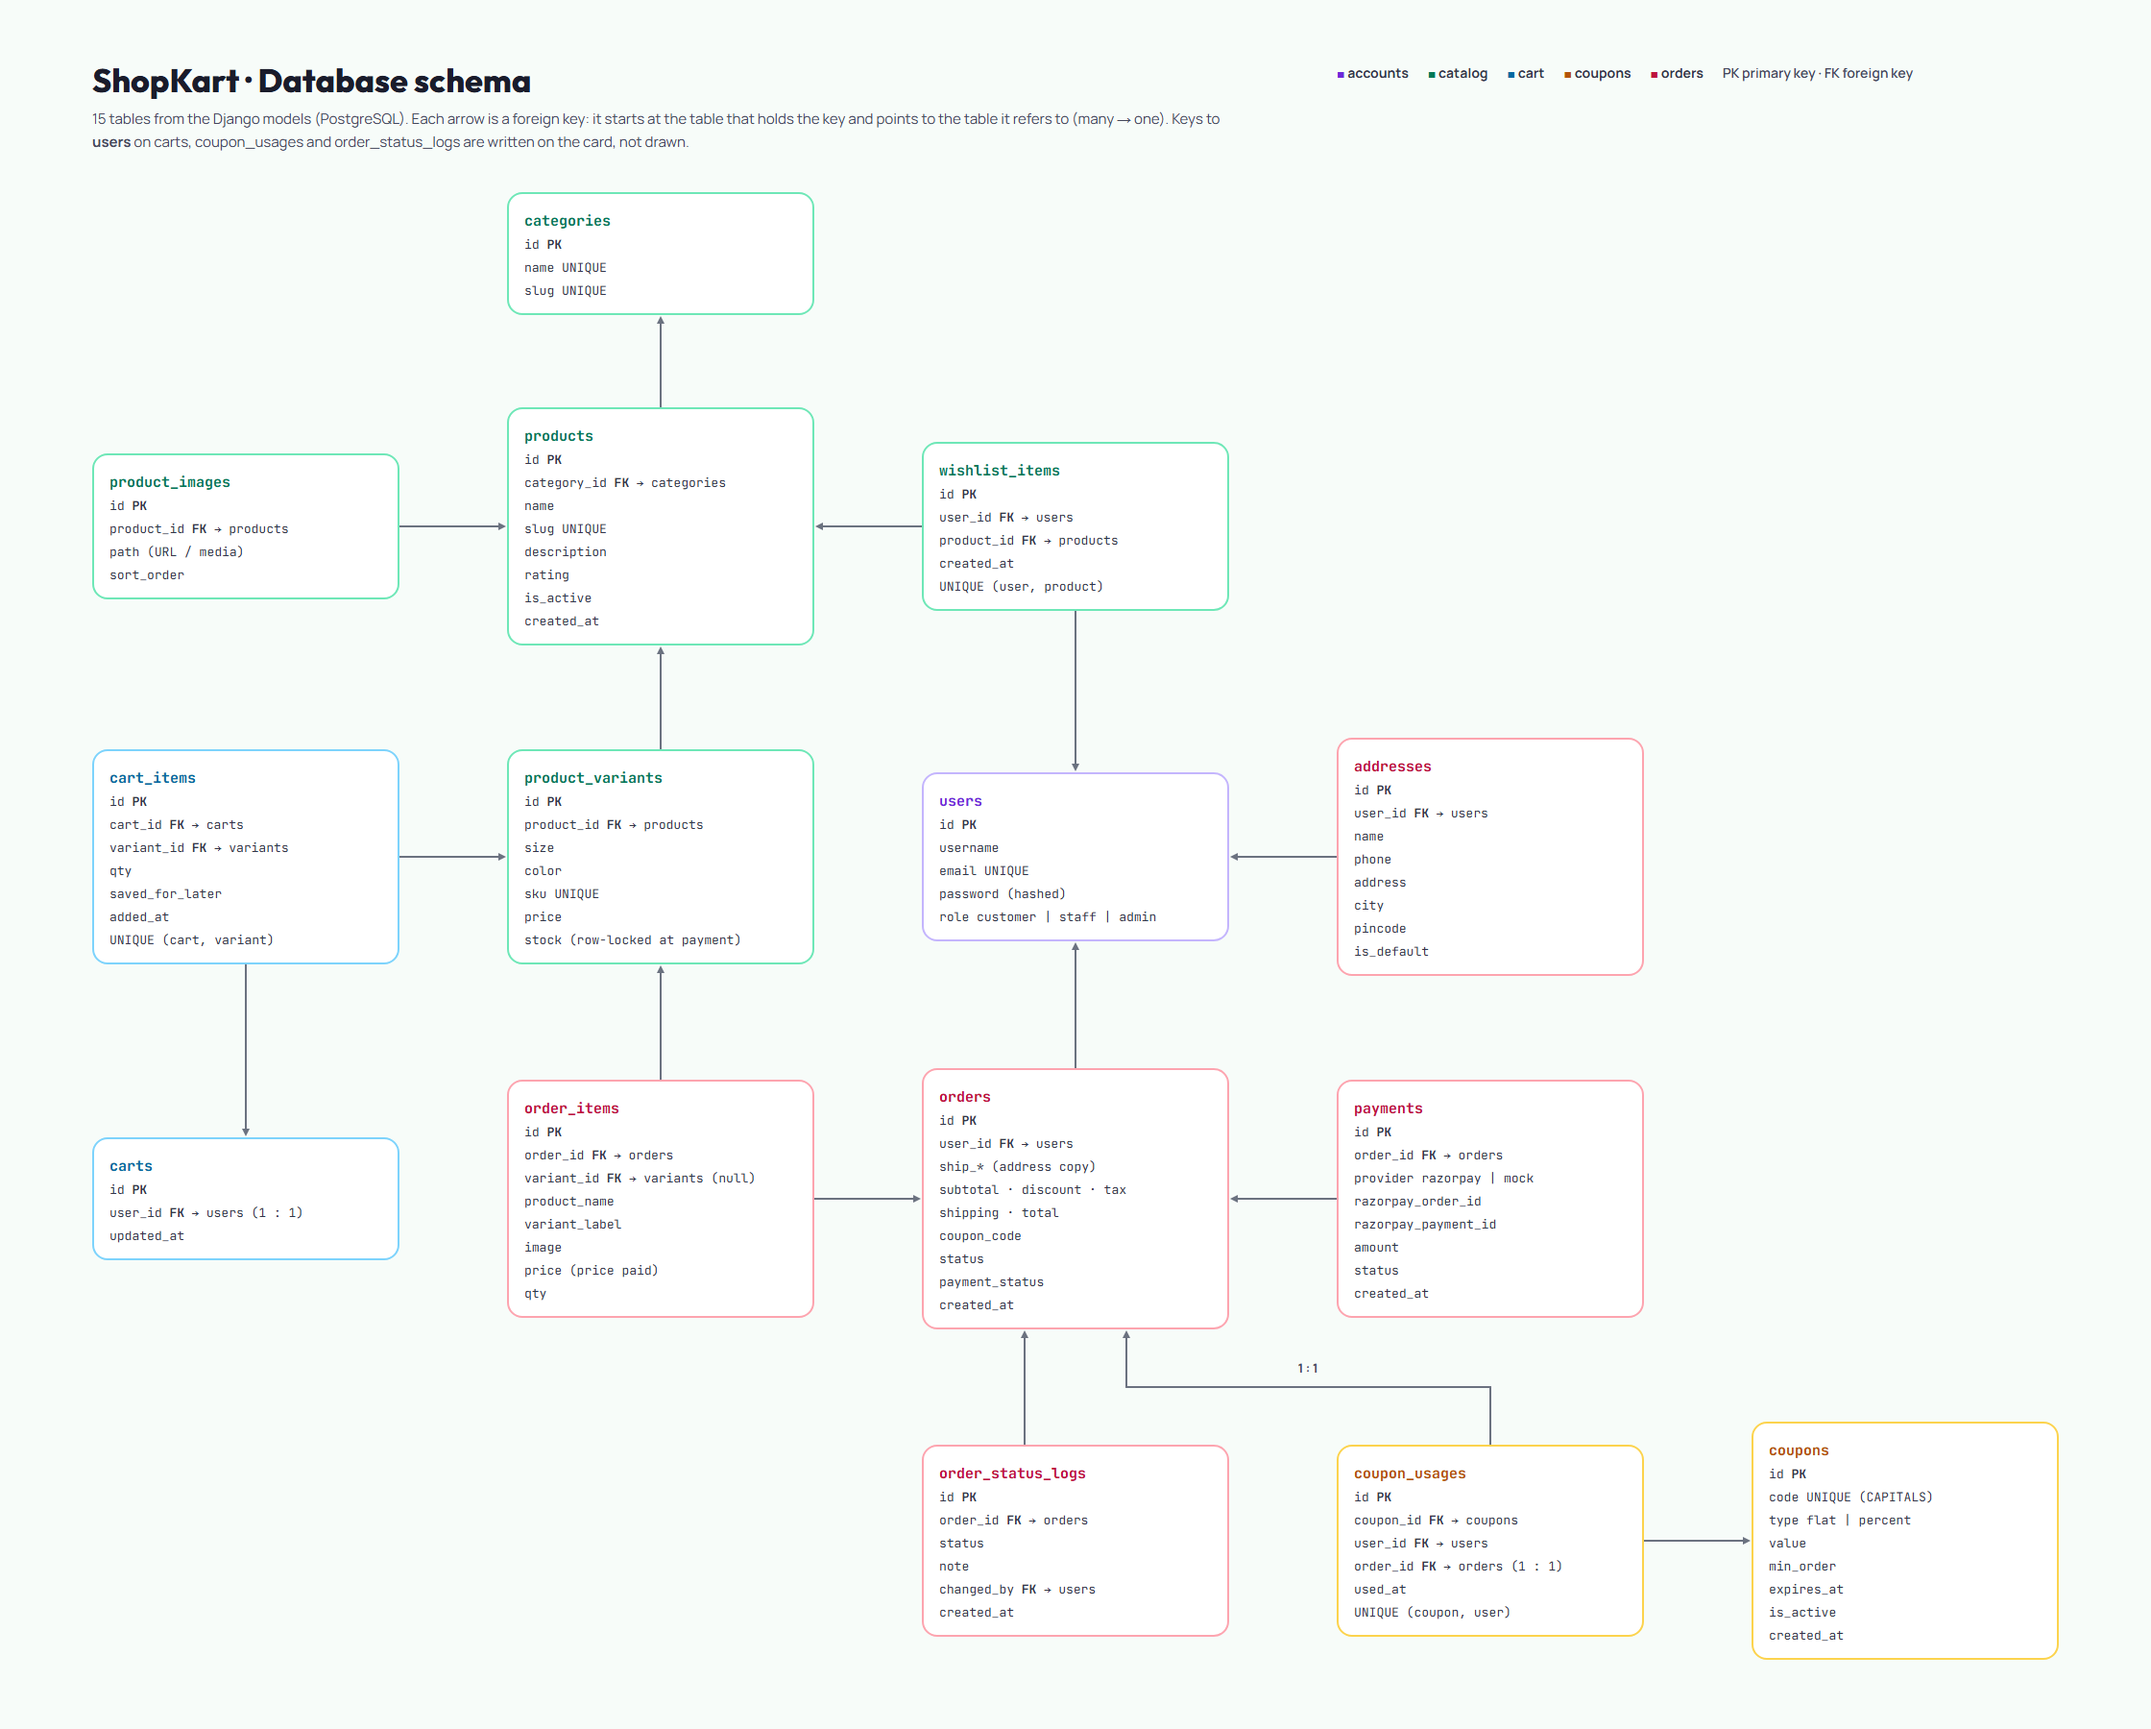
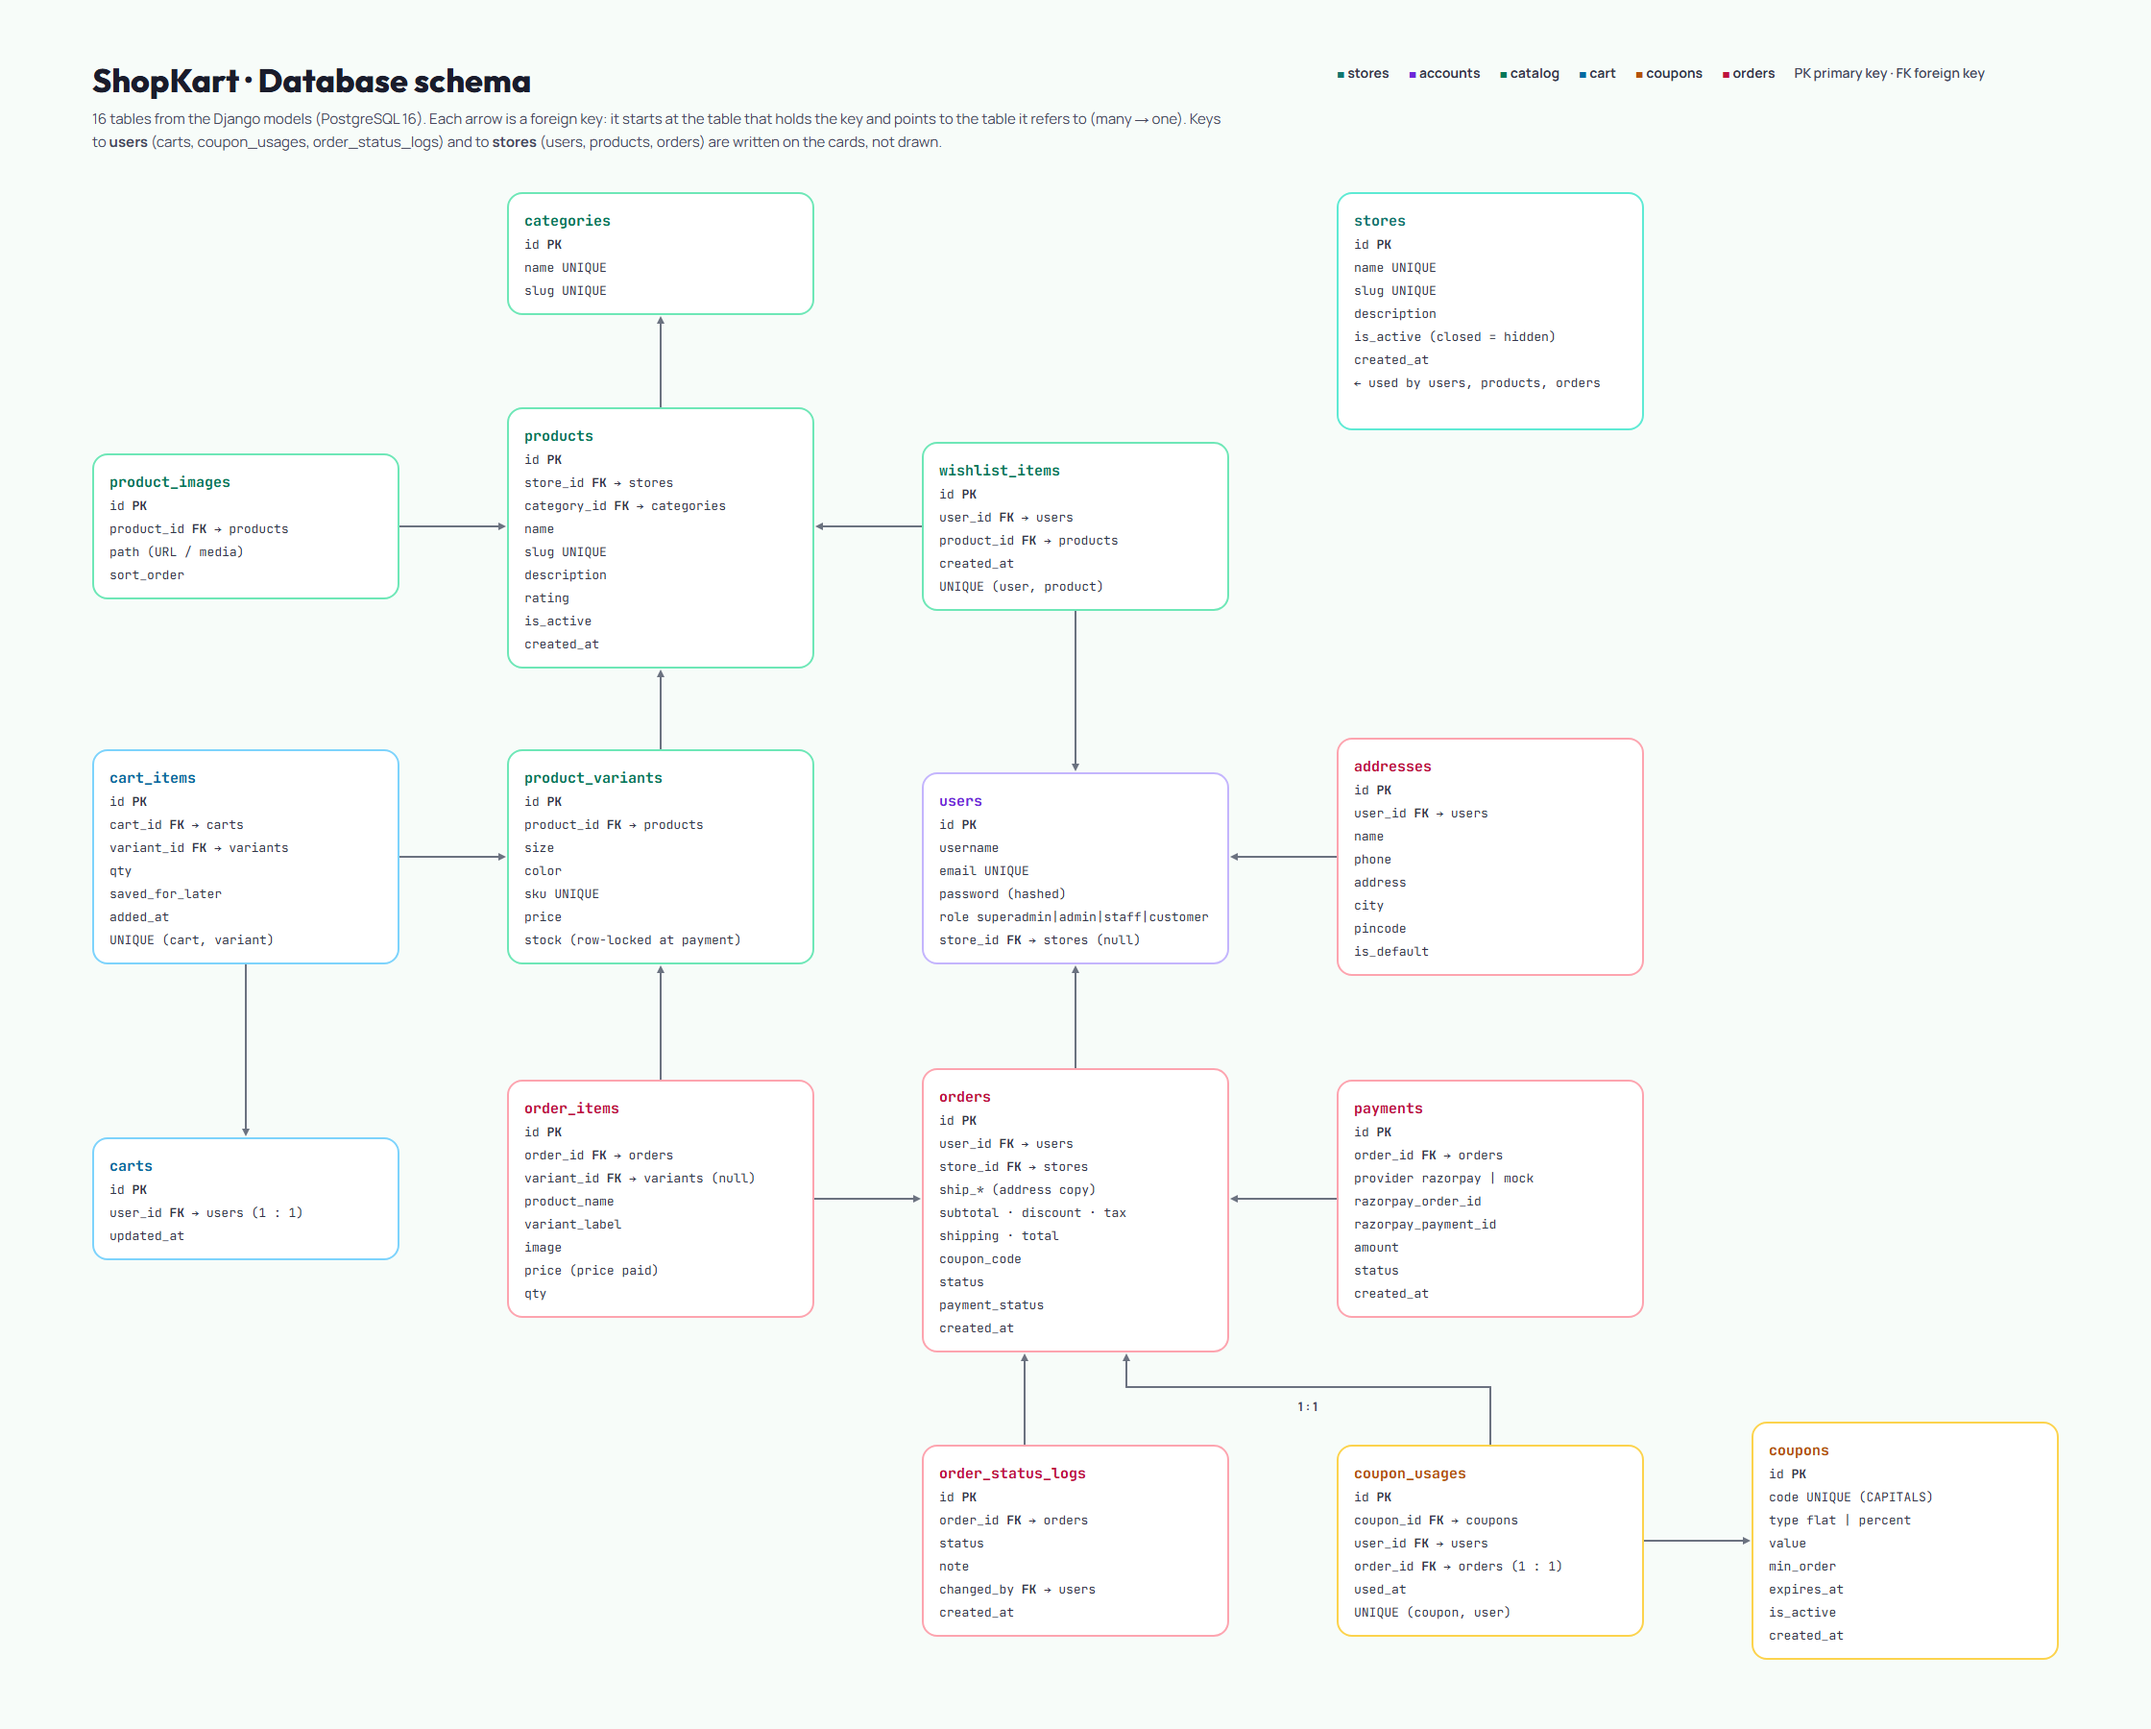
docs: screenshots, up-to-date database design and schema with stores
- README: Screenshots section (10 pages, desktop); all pages also checked at 390px
- docs/database-design.md rewritten for the current models: stores, roles,
  store_id on users / products / orders, order copies, payment attempts,
  status values and the rules the database enforces
- docs/database-schema.png: 16 tables including stores

diff --git a/docs/database-design.md b/docs/database-design.md
@@ -1,92 +1,104 @@
 # Database Design – ShopKart
 
-Database: **PostgreSQL** (SQLite is used temporarily during setup).
-Each table below becomes one **Django model** (a Python class). Django creates the
-tables for us with `makemigrations` + `migrate`.
+Database: **PostgreSQL 16** (Docker, port 5434). Every table below is a **Django model**;
+Django creates and changes the tables with `makemigrations` + `migrate`.
+
+![Database schema](database-schema.png)
 
 ## How the tables connect
 
 ```mermaid
 erDiagram
+    STORE ||--o{ USER : "employs (store admin / staff)"
+    STORE ||--o{ PRODUCT : sells
+    STORE ||--o{ ORDER : receives
     USER ||--o{ ADDRESS : has
     USER ||--o| CART : owns
-    USER ||--o{ WISHLIST : saves
+    USER ||--o{ WISHLIST_ITEM : saves
     USER ||--o{ ORDER : places
     CATEGORY ||--o{ PRODUCT : contains
     PRODUCT ||--o{ PRODUCT_IMAGE : has
     PRODUCT ||--o{ PRODUCT_VARIANT : "comes in"
+    PRODUCT ||--o{ WISHLIST_ITEM : "saved as"
     CART ||--o{ CART_ITEM : contains
     PRODUCT_VARIANT ||--o{ CART_ITEM : "added as"
     ORDER ||--o{ ORDER_ITEM : contains
     PRODUCT_VARIANT ||--o{ ORDER_ITEM : "bought as"
-    ORDER ||--o{ ORDER_STATUS_LOG : "history"
-    ORDER ||--o| PAYMENT : "paid by"
+    ORDER ||--o{ ORDER_STATUS_LOG : history
+    ORDER ||--o{ PAYMENT : "paid by (attempts)"
     COUPON ||--o{ COUPON_USAGE : "used in"
     ORDER ||--o| COUPON_USAGE : uses
 ```
 
-Read `||--o{` as **"one … has many …"**. Example: one CATEGORY contains many PRODUCTs.
+Read `||--o{` as **"one … has many …"**. Example: one STORE sells many PRODUCTs.
 
-## Why variants are a separate table
+## Roles
 
-A T-shirt has ONE name and description, but **each size/colour has its own price and stock**:
+| Role | Store | Can do |
+|---|---|---|
+| `superadmin` | – | All stores; creates stores and store admins; coupons |
+| `admin` (store admin) | required | Only their store: products, stock, orders, staff, dashboard, reports |
+| `staff` | required | Only their store's orders: move status forward |
+| `customer` | – | Shop, cart, wishlist, orders |
 
-| product | size | color | price | stock |
-|---|---|---|---|---|
-| Cotton T-Shirt | M | Black | 499 | 12 |
-| Cotton T-Shirt | L | Black | 499 | 0 |
-| Cotton T-Shirt | M | White | 549 | 7 |
+## Tables (Django names: `app_model`)
 
-So the **cart and orders point to a variant**, not to the product.
-"Can't add more than available stock" is checked against `product_variants.stock`.
-
-## Tables
+### stores app
+| Table | Columns | Notes |
+|---|---|---|
+| `stores_store` | id, name (unique), slug (unique), description, is_active, created_at | Inactive → products hidden from the shop, data kept |
 
 ### accounts app
 | Table | Columns | Notes |
 |---|---|---|
-| `users` | id, username, email, password, **role** | Django's built-in user + role (customer / staff / admin). ✅ Created on Day 1 |
-| `addresses` | id, user_id → users, name, phone, address, city, pincode, is_default | One user, many saved addresses |
+| `accounts_user` | id, username, email (unique), password (hashed), first_name, **role**, **store_id → stores** | Django's built-in user + role + store |
+| `authtoken_token` | key, user_id | Login token sent as `Authorization: Token …` |
 
 ### catalog app
 | Table | Columns | Notes |
 |---|---|---|
-| `categories` | id, name, slug | slug = URL-friendly name (`mens-clothing`) |
-| `products` | id, category_id → categories, name, slug, description, rating, is_active | No price here – price lives on the variant |
-| `product_images` | id, product_id → products, path, sort_order | Many images per product |
-| `product_variants` | id, product_id → products, size, color, sku, price, stock | sku = unique stock code |
-| `wishlists` | id, user_id → users, product_id → products | Unique per (user, product) |
+| `catalog_category` | id, name, slug | |
+| `catalog_product` | id, **store_id**, category_id, name, slug, description, rating, is_active, created_at | No price here – the price is on the variant |
+| `catalog_productimage` | id, product_id, path, sort_order | `path` = full URL (seed) or `/media/…` (upload) |
+| `catalog_productvariant` | id, product_id, size, color, sku (unique), price, stock | Cart and orders point to a **variant** |
+| `catalog_wishlistitem` | id, user_id, product_id, created_at | UNIQUE (user, product) |
 
 ### cart app
 | Table | Columns | Notes |
 |---|---|---|
-| `carts` | id, user_id → users | Guest cart lives in localStorage, merged on login |
-| `cart_items` | id, cart_id → carts, variant_id → product_variants, qty, saved_for_later | |
+| `cart_cart` | id, user_id (1 : 1), updated_at | Logged-in users only; guests use localStorage |
+| `cart_cartitem` | id, cart_id, variant_id, qty, saved_for_later, added_at | UNIQUE (cart, variant) |
 
 ### coupons app
 | Table | Columns | Notes |
 |---|---|---|
-| `coupons` | id, code, type (flat / percent), value, min_order, expires_at, is_active | |
-| `coupon_usages` | id, coupon_id → coupons, user_id → users, order_id → orders | Unique per (coupon, user) = one use per user |
+| `coupons_coupon` | id, code (unique, CAPITALS), type (flat / percent), value, min_order, expires_at, is_active, created_at | Shop-wide, managed by the super admin |
+| `coupons_couponusage` | id, coupon_id, user_id, order_id (1 : 1), used_at | UNIQUE (coupon, user) = one use per user |
 
 ### orders app
 | Table | Columns | Notes |
 |---|---|---|
-| `orders` | id, user_id, address_id, subtotal, discount, tax, shipping, total, status, payment_status | Prices are **copied** at order time (they may change later) |
-| `order_items` | id, order_id, variant_id, qty, price | price = price at the moment of buying |
-| `order_status_logs` | id, order_id, status, changed_by → users, created_at | Builds the status timeline |
-| `payments` | id, order_id, razorpay_order_id, razorpay_payment_id, status | |
+| `orders_address` | id, user_id, name, phone, address, city, pincode, is_default | Saved addresses |
+| `orders_order` | id, user_id, **store_id**, ship_name / phone / address / city / pincode, subtotal, discount, tax, shipping, total, coupon_code, status, payment_status, created_at | One order = one store. The address is **copied** so old orders never change |
+| `orders_orderitem` | id, order_id, variant_id (null if deleted), product_name, variant_label, image, price, qty | `price` = the price paid, not today's price |
+| `orders_orderstatuslog` | id, order_id, status, note, changed_by → user, created_at | Builds the tracking timeline |
+| `orders_payment` | id, order_id, provider (razorpay / mock), razorpay_order_id, razorpay_payment_id, amount, status, created_at | One row per payment **attempt** (failed + retry) |
 
-## Rules the database helps with
+## Status values
 
-| Business rule | How |
+- `orders_order.status`: `pending_payment` → `placed` → `packed` → `shipped` → `delivered`, or `cancelled`
+- `orders_order.payment_status`: `pending`, `paid`, `failed`, `refund_pending`
+- `orders_payment.status`: `created`, `success`, `failed`
+
+## Business rules the database enforces
+
+| Rule | How |
 |---|---|
-| Two users buy the last item | `transaction.atomic()` + `select_for_update()` locks the variant row |
-| One coupon use per user | Unique constraint on (coupon, user) |
-| Price never trusted from frontend | Backend recalculates from `product_variants.price` |
-| Order history stays correct | `order_items.price` stores the price paid, not a link to today's price |
-
-## Build order
-1. ✅ `users` (Day 1 – needed before the first migration)
-2. ⏭ `categories`, `products`, `product_images`, `product_variants` → load seed data
-3. `addresses`, `wishlists` → `carts`, `cart_items` → `coupons` → `orders`, `payments`
+| Two users buy the last item | `transaction.atomic()` + `select_for_update()` locks the variant row; stock is reduced with `UPDATE … WHERE stock >= qty` |
+| Stock never negative | `stock` is a positive integer + the conditional update above |
+| One coupon use per user | UNIQUE (coupon, user) on `coupons_couponusage` |
+| One wishlist row per product | UNIQUE (user, product) on `catalog_wishlistitem` |
+| One cart row per variant | UNIQUE (cart, variant) on `cart_cartitem` |
+| A store or category with products can't be deleted | `on_delete=PROTECT` on `store_id` / `category_id` |
+| Old orders stay correct | `orderitem.price`, `orderitem.product_name` and `order.ship_*` are **copies** |
+| Price never trusted from the browser | The backend recalculates from `productvariant.price` at checkout |

diff --git a/README.md b/README.md
@@ -108,6 +108,22 @@ Run backend tests: `.venv\Scripts\python manage.py test` (57 tests, including a 
 Without keys the app uses a **mock payment screen** (Pay successfully / Make payment fail).
 The backend always verifies the payment (HMAC signature) before reducing stock.
 
+## Screenshots
+
+| Shop | Product (variants, "Sold by") |
+|---|---|
+| ![Home](docs/screenshots/home.png) | ![Product](docs/screenshots/product.png) |
+| **Product list with filters in the URL** | **Cart (guest cart, stock limits)** |
+| ![Products](docs/screenshots/products.png) | ![Cart](docs/screenshots/cart.png) |
+| **Checkout – price verified by the server** | **Order tracking timeline** |
+| ![Checkout](docs/screenshots/checkout.png) | ![Order](docs/screenshots/order.png) |
+| **Store admin dashboard** | **Sales report (Recharts)** |
+| ![Dashboard](docs/screenshots/admin-dashboard.png) | ![Reports](docs/screenshots/admin-reports.png) |
+| **Super admin – stores and store admins** | **Store admin – own products only** |
+| ![Stores](docs/screenshots/super-stores.png) | ![Admin products](docs/screenshots/admin-products.png) |
+
+All pages were also checked at phone width (390px).
+
 ## Database schema
 
 ![Database schema](docs/database-schema.png)
